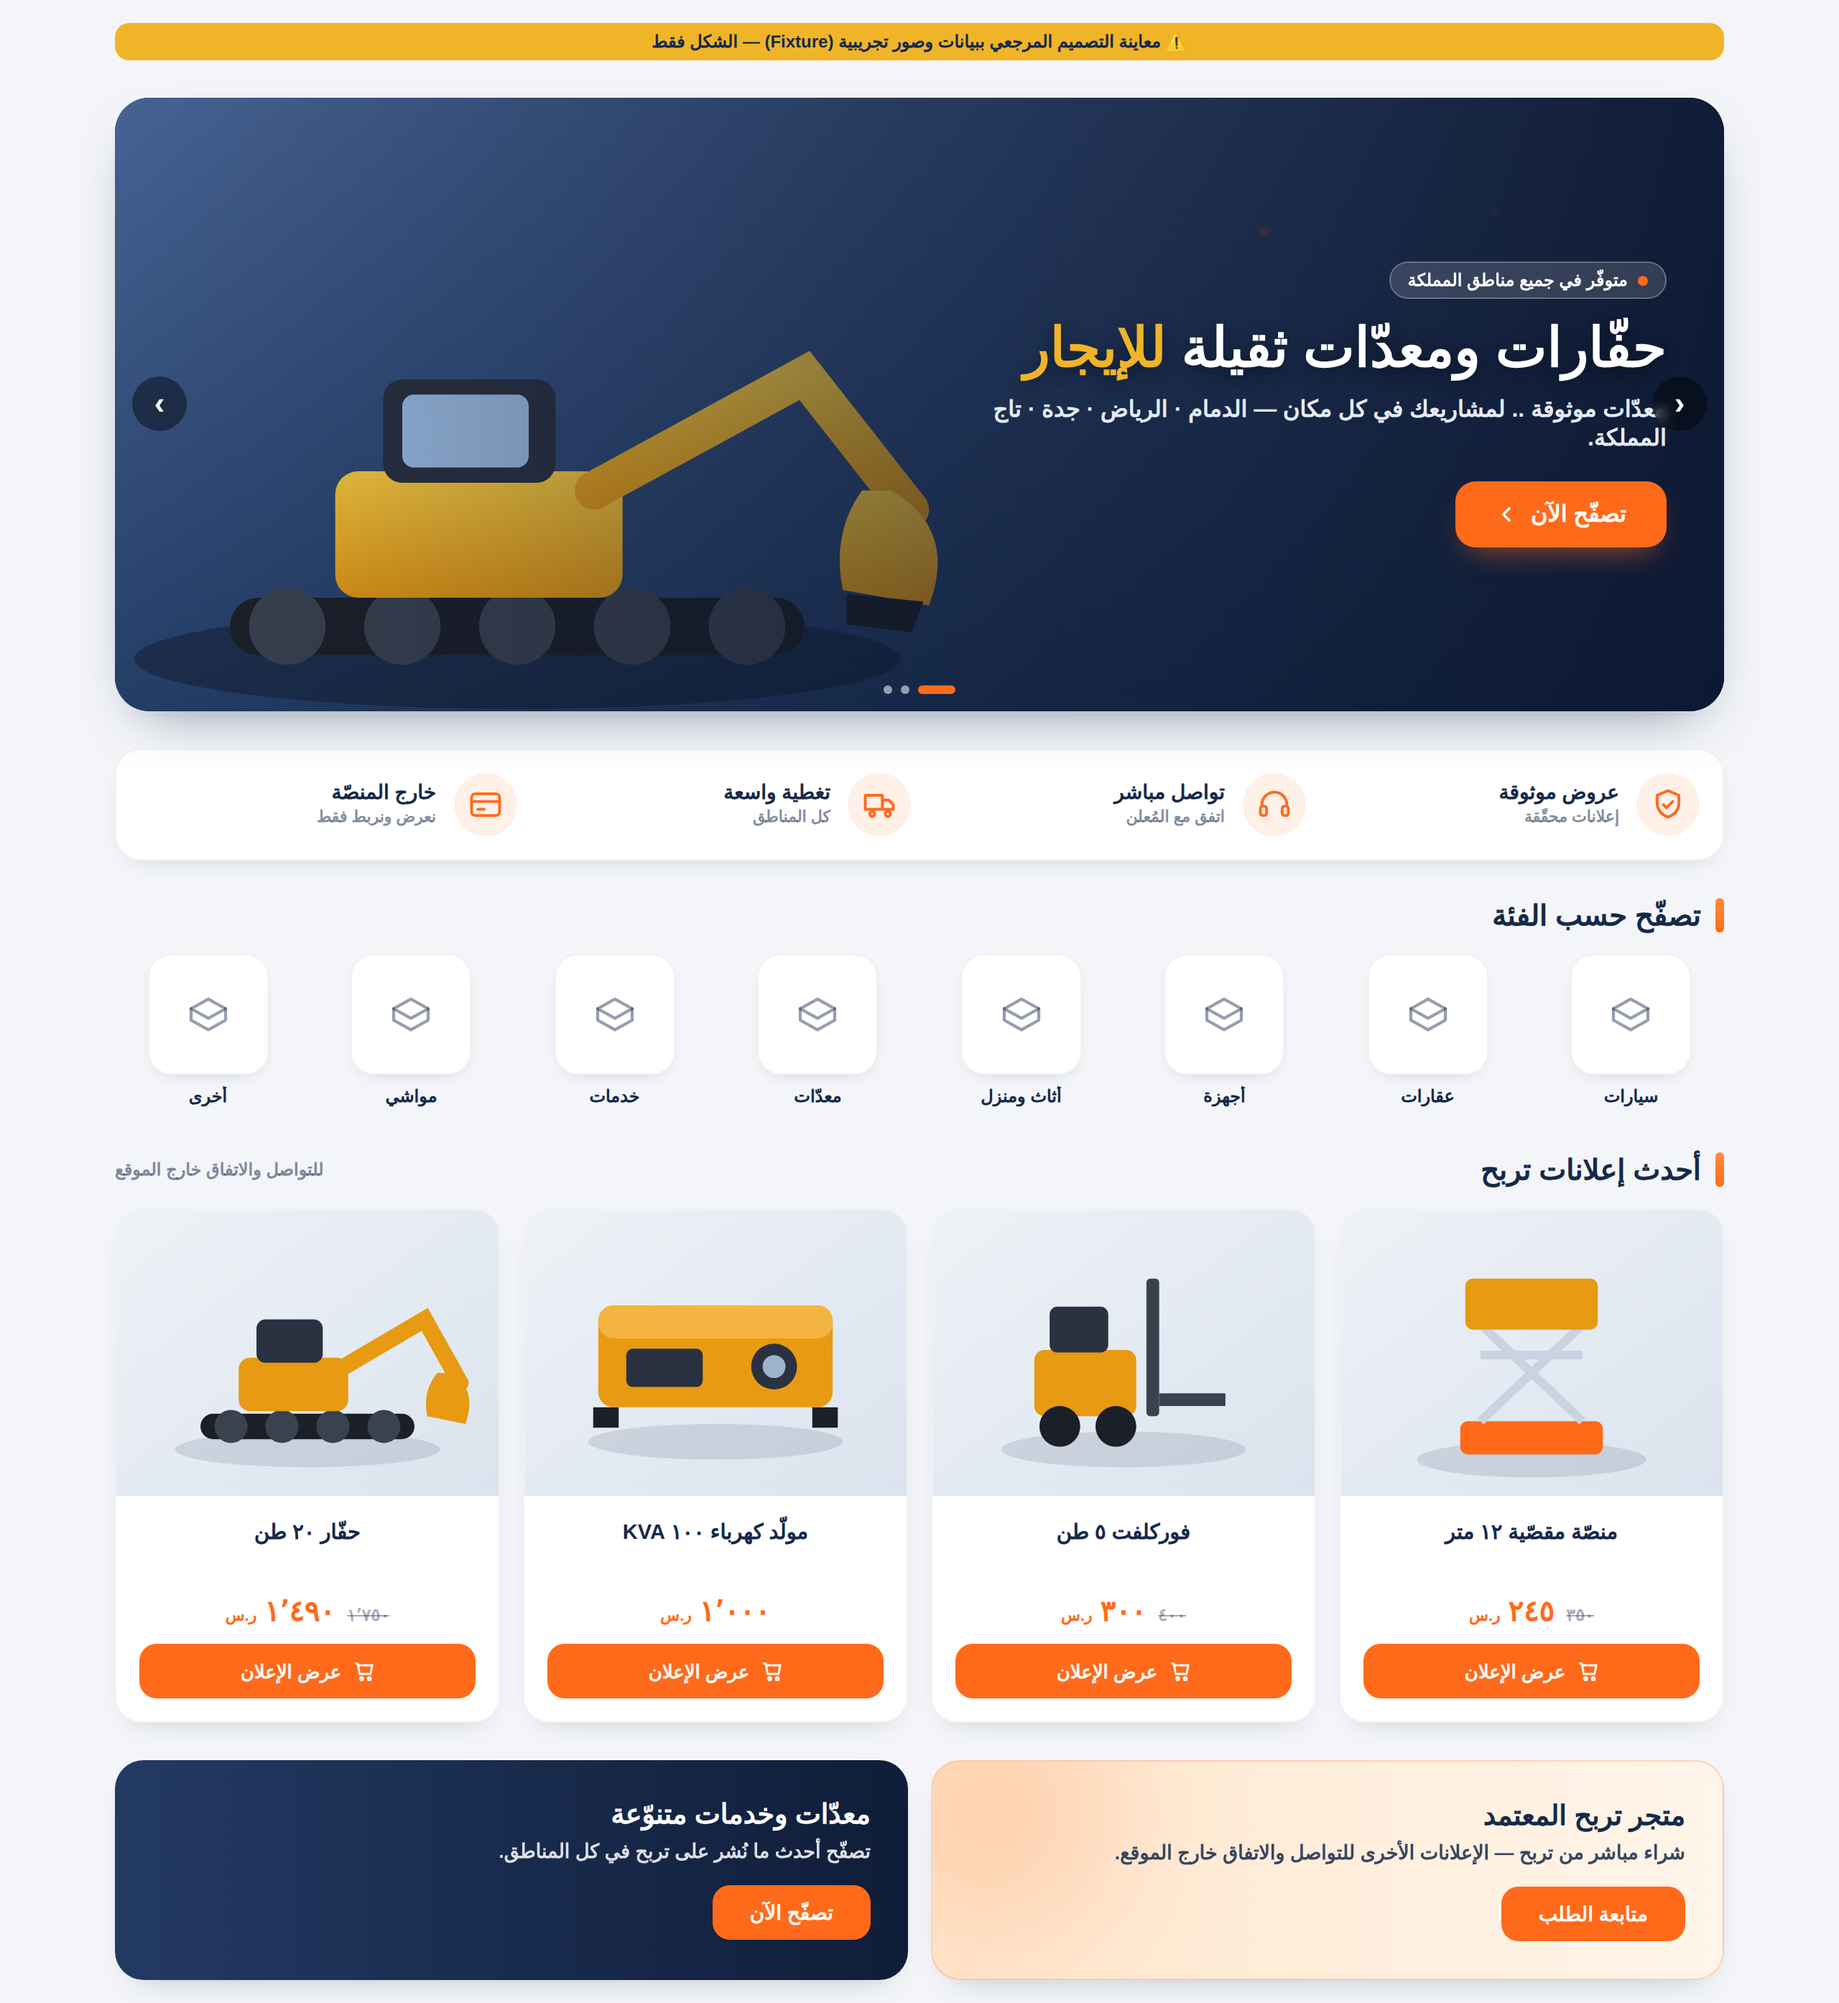
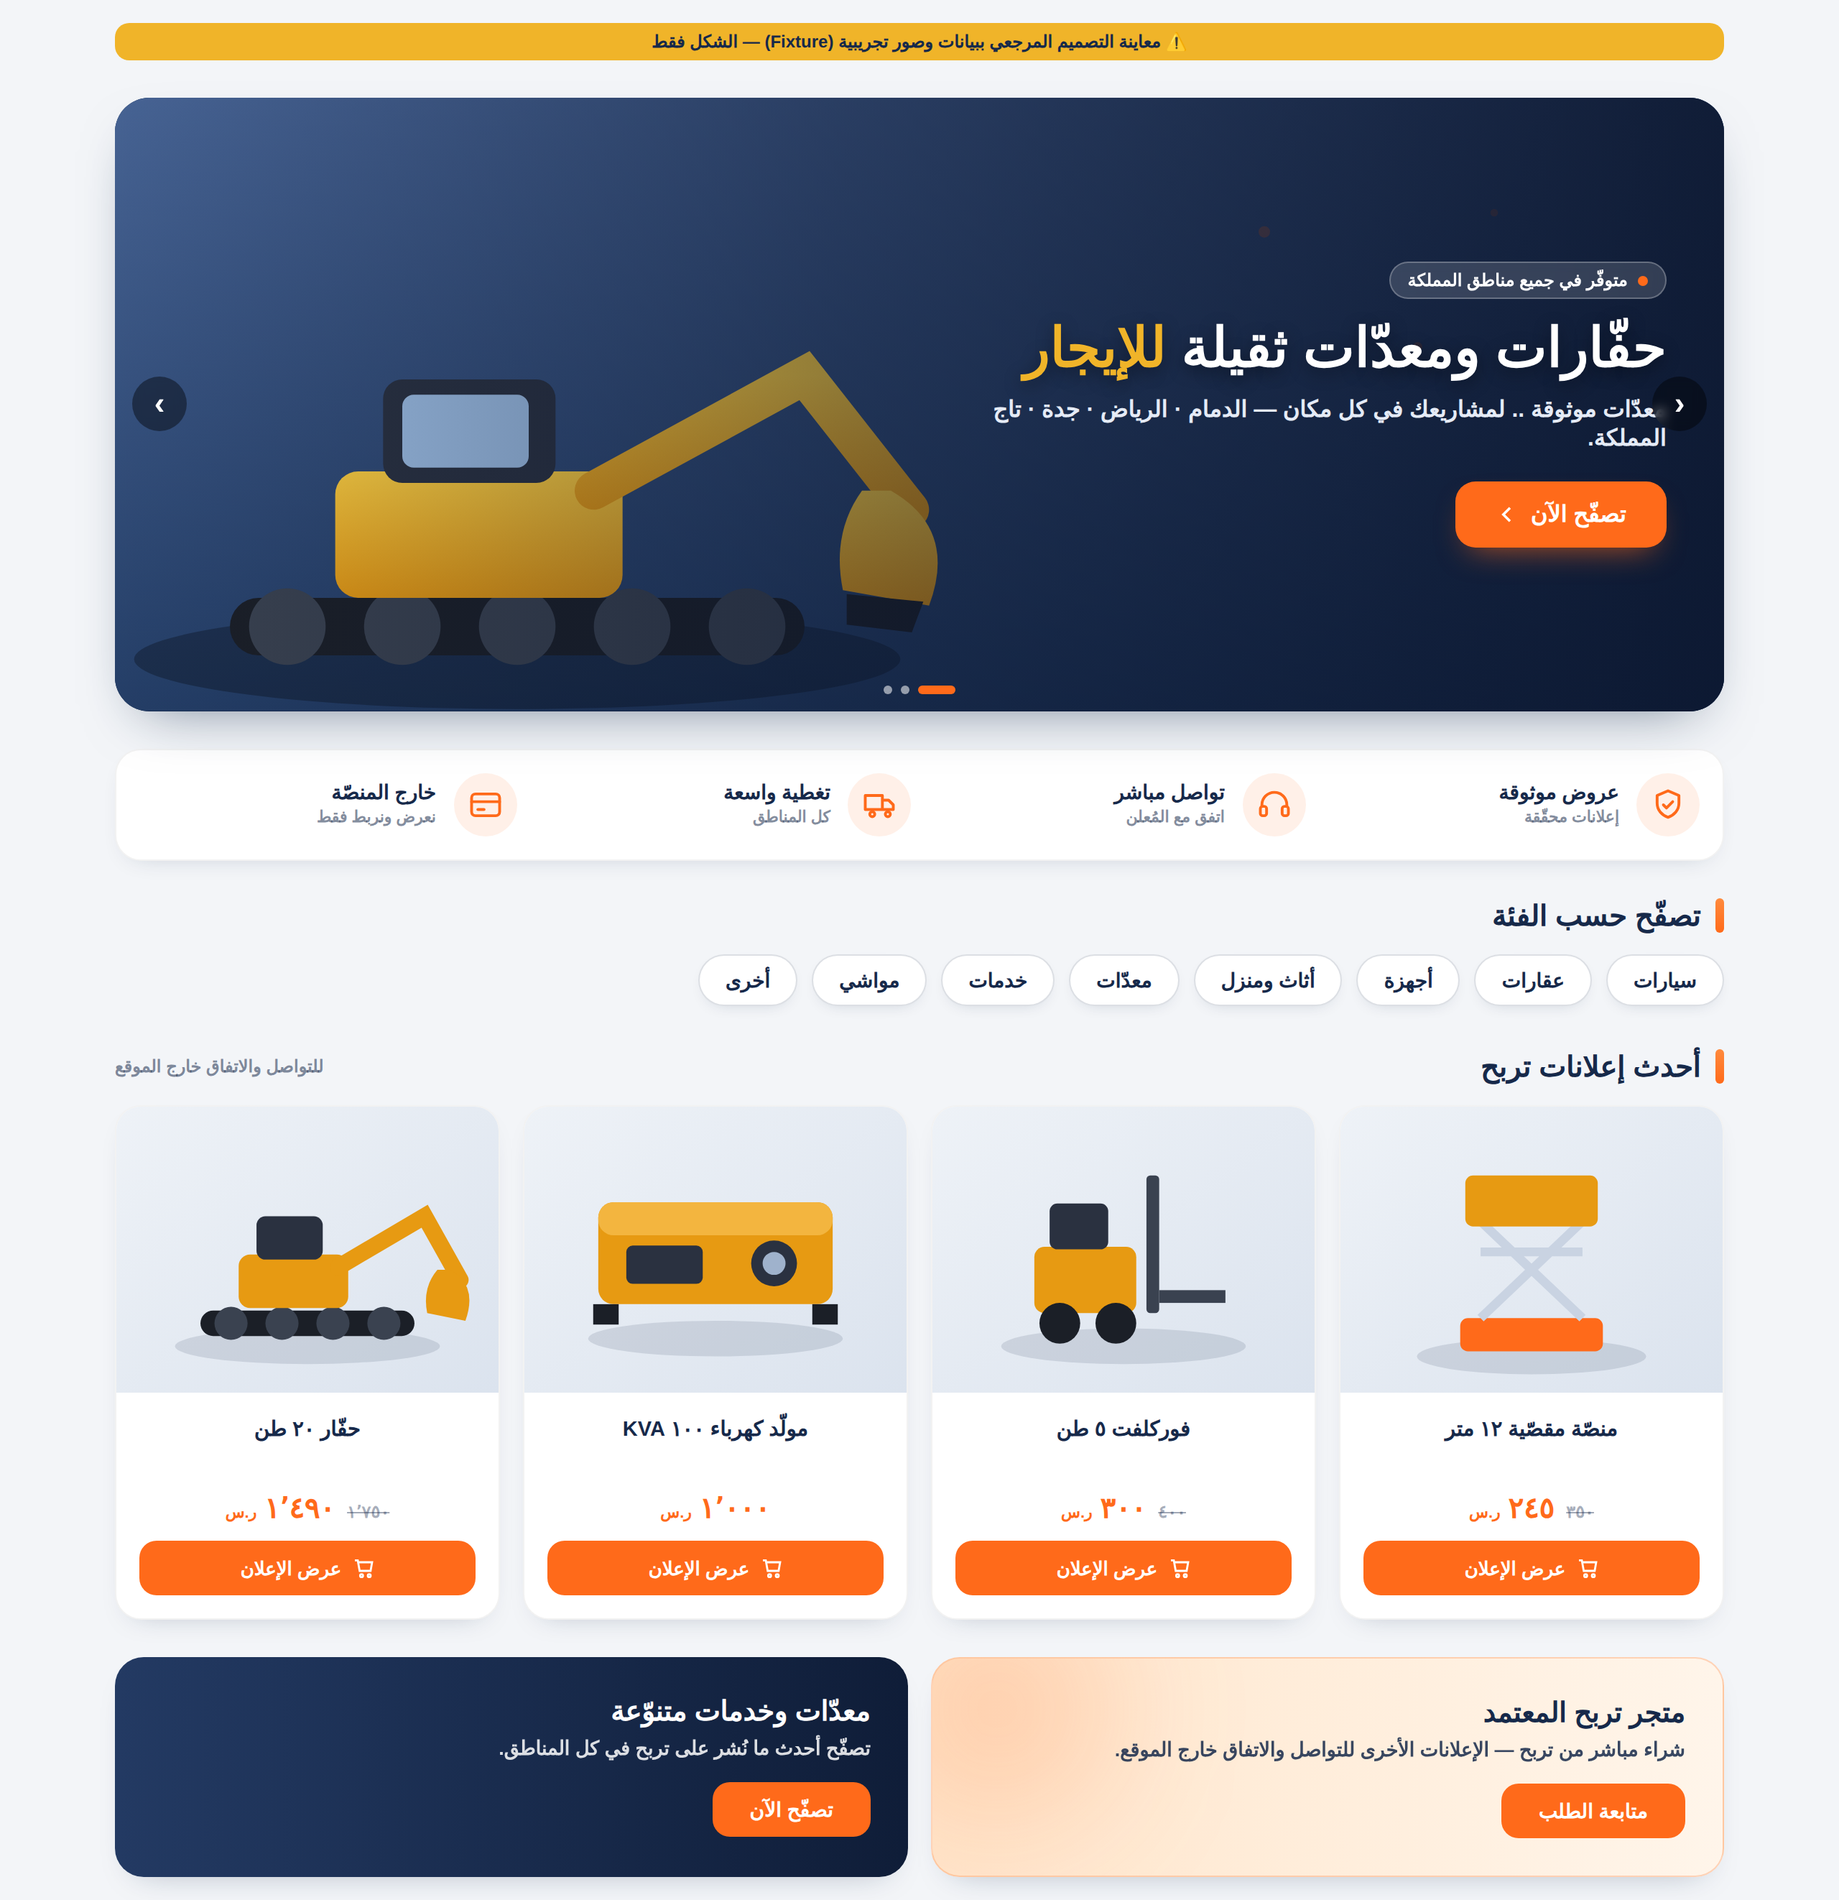
«تصفّح حسب الفئة» شرائح بأسماء فقط بلا أيقونات
استبدال بطاقات الأيقونات بشرائح (chips) نظيفة تحمل اسم الفئة فقط — صفّ قابل
للسحب على الجوال وتوزيع منسدل على الحاسوب. لا تغيير في الألوان أو الترتيب.

Claude-Session: https://claude.ai/code/session_01XqhR4uyV2Mz8wuDXZKKi2R

diff --git a/docs/screenshots/commerce/commerce-preview.html b/docs/screenshots/commerce/commerce-preview.html
@@ -31,17 +31,11 @@ img.media,svg.media{position:absolute;inset:0;width:100%;height:100%;object-fit:
 .trust .ic svg{width:26px;height:26px}
 .trust b{font-size:14px;font-weight:800;display:block}
 .trust span{font-size:11px;color:rgba(22,41,74,.55);font-weight:700}
-/* Categories */
-.cats{display:flex;gap:12px;overflow-x:auto;padding-bottom:6px;scrollbar-width:none}
+/* Categories — chips (بلا أيقونات) */
+.cats{display:flex;gap:10px;overflow-x:auto;padding-bottom:4px;scrollbar-width:none}
 .cats::-webkit-scrollbar{display:none}
-@media(min-width:640px){.cats{display:grid;grid-template-columns:repeat(4,1fr);overflow:visible}}
-@media(min-width:768px){.cats{grid-template-columns:repeat(6,1fr)}}
-@media(min-width:1024px){.cats{grid-template-columns:repeat(8,1fr)}}
-.cat{flex:0 0 auto;width:80px;display:flex;flex-direction:column;align-items:center;gap:8px}
-@media(min-width:640px){.cat{width:auto}}
-.cat .ic{aspect-ratio:1;width:100%;max-width:84px;background:#fff;border:1px solid rgba(0,0,0,.05);border-radius:16px;display:grid;place-items:center;box-shadow:0 4px 12px -8px rgba(16,41,74,.3);color:rgba(22,41,74,.45)}
-.cat .ic svg{width:32px;height:32px}
-.cat b{font-size:12px;font-weight:800;text-align:center;white-space:nowrap;overflow:hidden;text-overflow:ellipsis;max-width:100%}
+@media(min-width:640px){.cats{flex-wrap:wrap;overflow:visible}}
+.cat{flex:0 0 auto;white-space:nowrap;background:#fff;border:1px solid rgba(22,41,74,.15);border-radius:30px;padding:9px 18px;font-size:14px;font-weight:800;color:var(--navy);box-shadow:0 4px 12px -8px rgba(16,41,74,.3)}
 /* Section head */
 .shead{display:flex;align-items:center;justify-content:space-between;gap:12px;margin-bottom:14px}
 .shead h2{font-size:20px;font-weight:800;display:flex;align-items:center;gap:10px}
@@ -121,14 +115,14 @@ img.media,svg.media{position:absolute;inset:0;width:100%;height:100%;object-fit:
   <div>
     <div class="shead"><h2><i></i>تصفّح حسب الفئة</h2></div>
     <div class="cats">
-      <span class="cat"><span class="ic"><svg viewBox="0 0 24 24" fill="none" stroke="currentColor" stroke-width="1.6" stroke-linecap="round" stroke-linejoin="round"><path d="M3 9l9-5 9 5-9 5z"/><path d="M3 9v6l9 5 9-5V9"/></svg></span><b>سيارات</b></span>
-      <span class="cat"><span class="ic"><svg viewBox="0 0 24 24" fill="none" stroke="currentColor" stroke-width="1.6" stroke-linecap="round" stroke-linejoin="round"><path d="M3 9l9-5 9 5-9 5z"/><path d="M3 9v6l9 5 9-5V9"/></svg></span><b>عقارات</b></span>
-      <span class="cat"><span class="ic"><svg viewBox="0 0 24 24" fill="none" stroke="currentColor" stroke-width="1.6" stroke-linecap="round" stroke-linejoin="round"><path d="M3 9l9-5 9 5-9 5z"/><path d="M3 9v6l9 5 9-5V9"/></svg></span><b>أجهزة</b></span>
-      <span class="cat"><span class="ic"><svg viewBox="0 0 24 24" fill="none" stroke="currentColor" stroke-width="1.6" stroke-linecap="round" stroke-linejoin="round"><path d="M3 9l9-5 9 5-9 5z"/><path d="M3 9v6l9 5 9-5V9"/></svg></span><b>أثاث ومنزل</b></span>
-      <span class="cat"><span class="ic"><svg viewBox="0 0 24 24" fill="none" stroke="currentColor" stroke-width="1.6" stroke-linecap="round" stroke-linejoin="round"><path d="M3 9l9-5 9 5-9 5z"/><path d="M3 9v6l9 5 9-5V9"/></svg></span><b>معدّات</b></span>
-      <span class="cat"><span class="ic"><svg viewBox="0 0 24 24" fill="none" stroke="currentColor" stroke-width="1.6" stroke-linecap="round" stroke-linejoin="round"><path d="M3 9l9-5 9 5-9 5z"/><path d="M3 9v6l9 5 9-5V9"/></svg></span><b>خدمات</b></span>
-      <span class="cat"><span class="ic"><svg viewBox="0 0 24 24" fill="none" stroke="currentColor" stroke-width="1.6" stroke-linecap="round" stroke-linejoin="round"><path d="M3 9l9-5 9 5-9 5z"/><path d="M3 9v6l9 5 9-5V9"/></svg></span><b>مواشي</b></span>
-      <span class="cat"><span class="ic"><svg viewBox="0 0 24 24" fill="none" stroke="currentColor" stroke-width="1.6" stroke-linecap="round" stroke-linejoin="round"><path d="M3 9l9-5 9 5-9 5z"/><path d="M3 9v6l9 5 9-5V9"/></svg></span><b>أخرى</b></span>
+      <span class="cat">سيارات</span>
+      <span class="cat">عقارات</span>
+      <span class="cat">أجهزة</span>
+      <span class="cat">أثاث ومنزل</span>
+      <span class="cat">معدّات</span>
+      <span class="cat">خدمات</span>
+      <span class="cat">مواشي</span>
+      <span class="cat">أخرى</span>
     </div>
   </div>
 

diff --git a/src/components/commerce/commerce-home.tsx b/src/components/commerce/commerce-home.tsx
@@ -58,33 +58,21 @@ function TrustBar({ items = DEFAULT_TRUST }: { items?: TrustItem[] }) {
 
 export type CommerceCategory = { name: string; href: string; image?: string | null };
 
-function CatIcon() {
-  return (
-    <svg viewBox="0 0 24 24" className="h-8 w-8 text-[#16294a]/45" fill="none" stroke="currentColor" strokeWidth="1.6" strokeLinecap="round" strokeLinejoin="round" aria-hidden="true">
-      <path d="M3 9l9-5 9 5-9 5z" /><path d="M3 9v6l9 5 9-5V9" /><path d="M12 14v6" />
-    </svg>
-  );
-}
-
-function CatMedia({ image, name }: { image?: string | null; name: string }) {
-  if (!image) return <CatIcon />;
-  // eslint-disable-next-line @next/next/no-img-element
-  return <img src={image} alt={name} loading="lazy" decoding="async" className="h-full w-full object-cover" />;
-}
-
-/** «تصفّح حسب الفئة» — بطاقات موحّدة: صف أفقي قابل للسحب على الجوال، شبكة على الحاسوب. */
+/** «تصفّح حسب الفئة» — شرائح بأسماء الفئات فقط (بلا أيقونات): صفّ قابل للسحب على
+ *  الجوال، وتوزيع منسدل على الحاسوب. */
 function CommerceCategories({ items }: { items: CommerceCategory[] }) {
   if (!items || items.length === 0) return null;
   return (
-    <section className="space-y-4">
+    <section className="space-y-3">
       <SectionHeader title="تصفّح حسب الفئة" accent="navy" />
-      <div className="-mx-1 flex gap-3 overflow-x-auto px-1 pb-2 [scrollbar-width:none] [&::-webkit-scrollbar]:hidden sm:grid sm:grid-cols-4 sm:overflow-visible md:grid-cols-6 lg:grid-cols-7">
+      <div className="-mx-1 flex gap-2.5 overflow-x-auto px-1 pb-1 [scrollbar-width:none] [&::-webkit-scrollbar]:hidden sm:flex-wrap sm:overflow-visible">
         {items.map((c) => (
-          <Link key={c.name} href={c.href} className="group flex w-20 shrink-0 flex-col items-center gap-2 sm:w-auto">
-            <span className="grid aspect-square w-full max-w-[84px] place-items-center overflow-hidden rounded-2xl border border-black/5 bg-white shadow-sm transition group-hover:shadow-md">
-              <CatMedia image={c.image} name={c.name} />
-            </span>
-            <span className="line-clamp-1 w-full text-center text-xs font-bold text-[#16294a]">{c.name}</span>
+          <Link
+            key={c.name}
+            href={c.href}
+            className="shrink-0 whitespace-nowrap rounded-full border border-[#16294a]/15 bg-white px-4 py-2 text-sm font-bold text-[#16294a] shadow-sm transition hover:border-[#ff6a1a]/60 hover:bg-[#ff6a1a]/5 hover:text-[#ff6a1a]"
+          >
+            {c.name}
           </Link>
         ))}
       </div>
